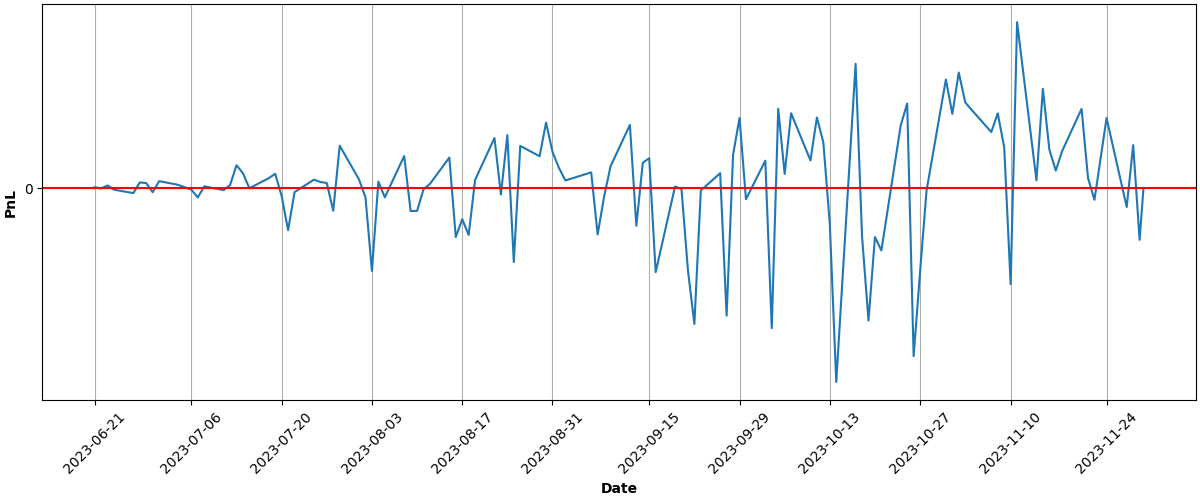
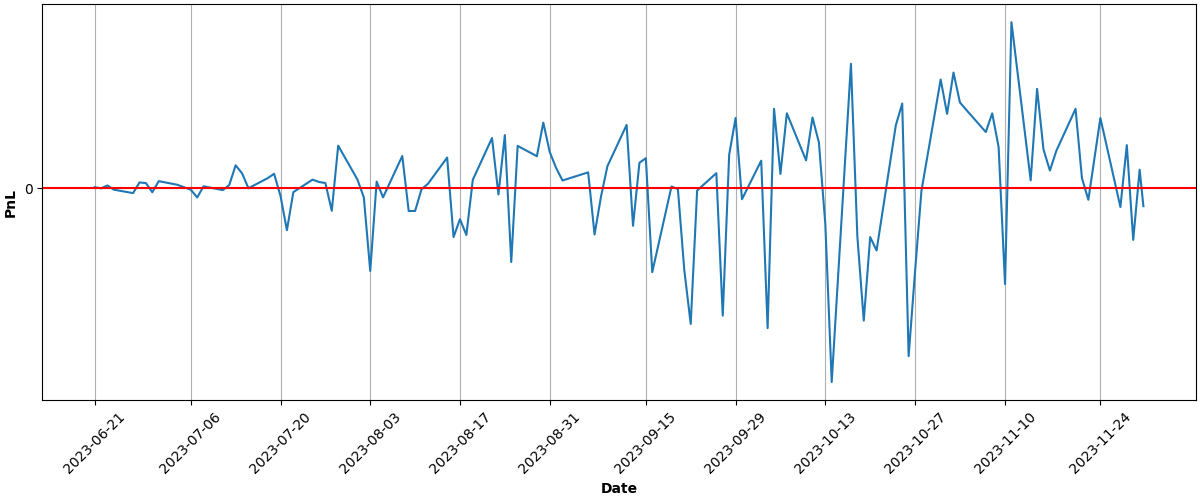
Automated Buy At Fri Dec  1 15:04:50 UTC 2023 Run ID 7061680984

diff --git a/README.md b/README.md
@@ -68,9 +68,9 @@ Results
 
 | Asset | Average Price | Current Price | ROI | 📈 |
 | --- | --- | --- | --- | --- |
-| FNGU | $174.011942852 | $200.608 | 15.28% | &#128994;&#128515; |
-| SVIX | $28.524929787 | $34.16 | 19.75% | &#128994;&#128515; |
-| **Total** |  |  | **17.66%** | &#128994;&#128518; |
+| FNGU | $174.174388306 | $195.46 | 12.22% | &#128994;&#128515; |
+| SVIX | $28.642945833 | $34.91 | 21.88% | &#128994;&#128515; |
+| **Total** |  |  | **17.40%** | &#128994;&#128518; |
 
 ### PnL over time (calculations may not be accurate):
 
@@ -81,6 +81,6 @@ Results
 ---
 
 
-Updated at 2023-11-30 15:04:38
+Updated at 2023-12-01 15:05:04
 
 
